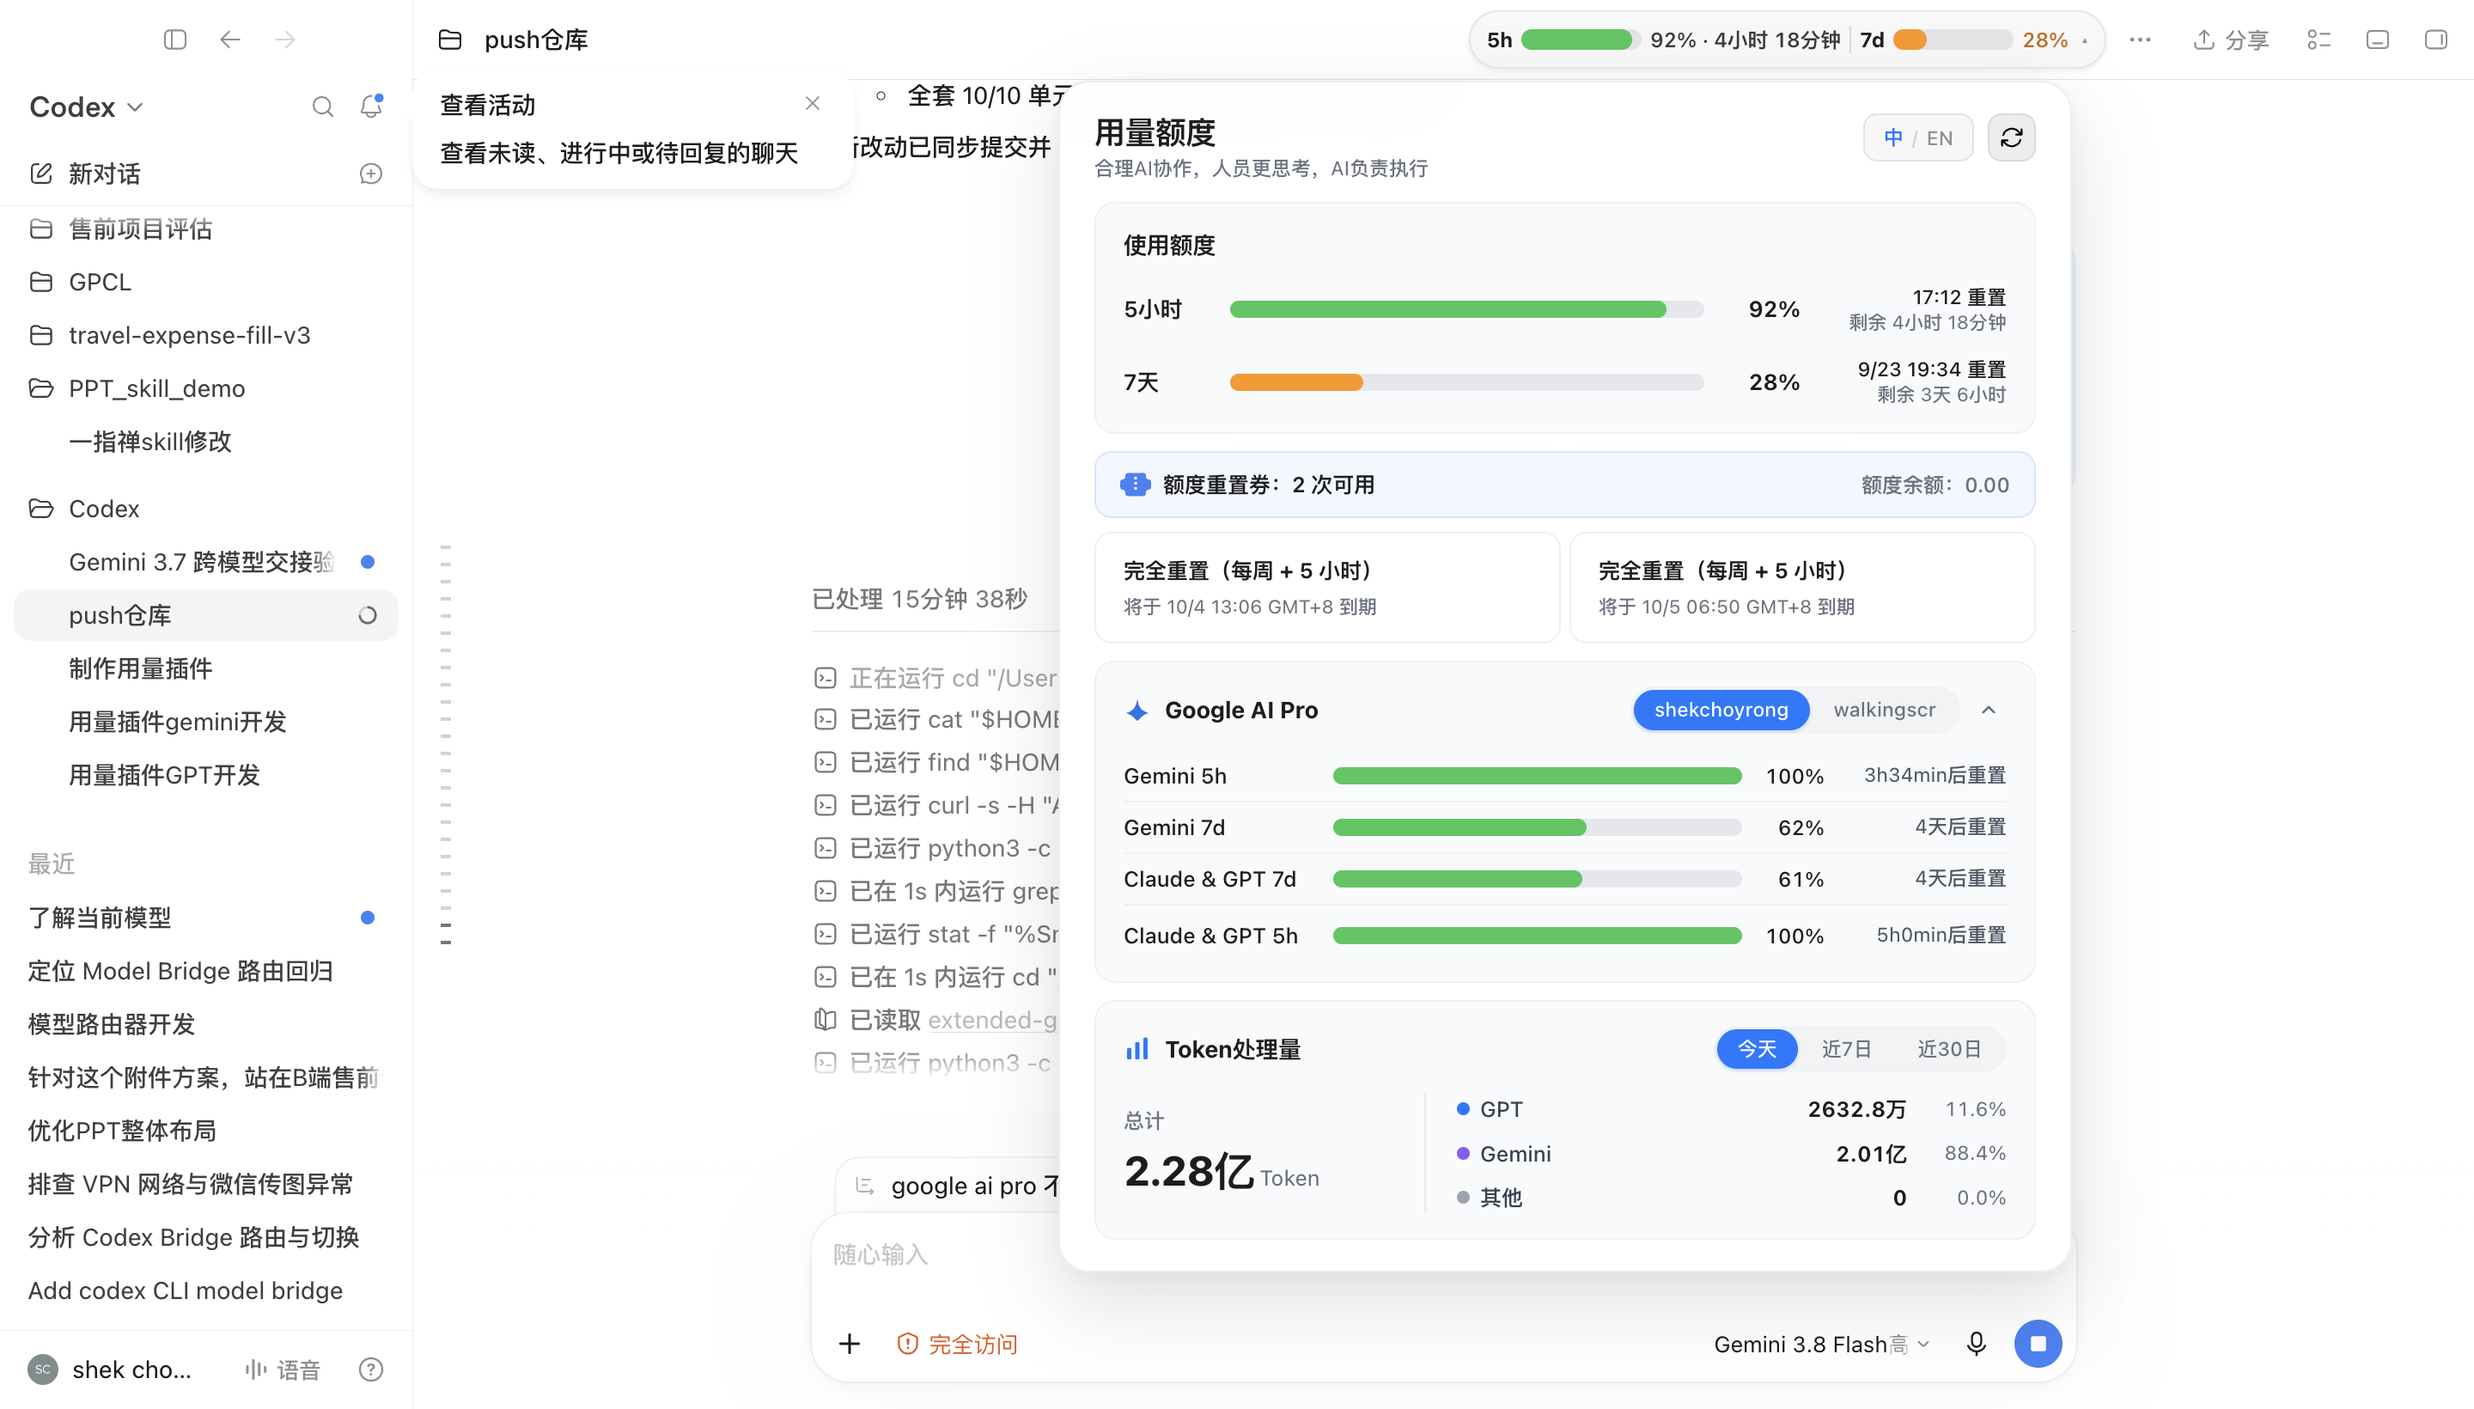
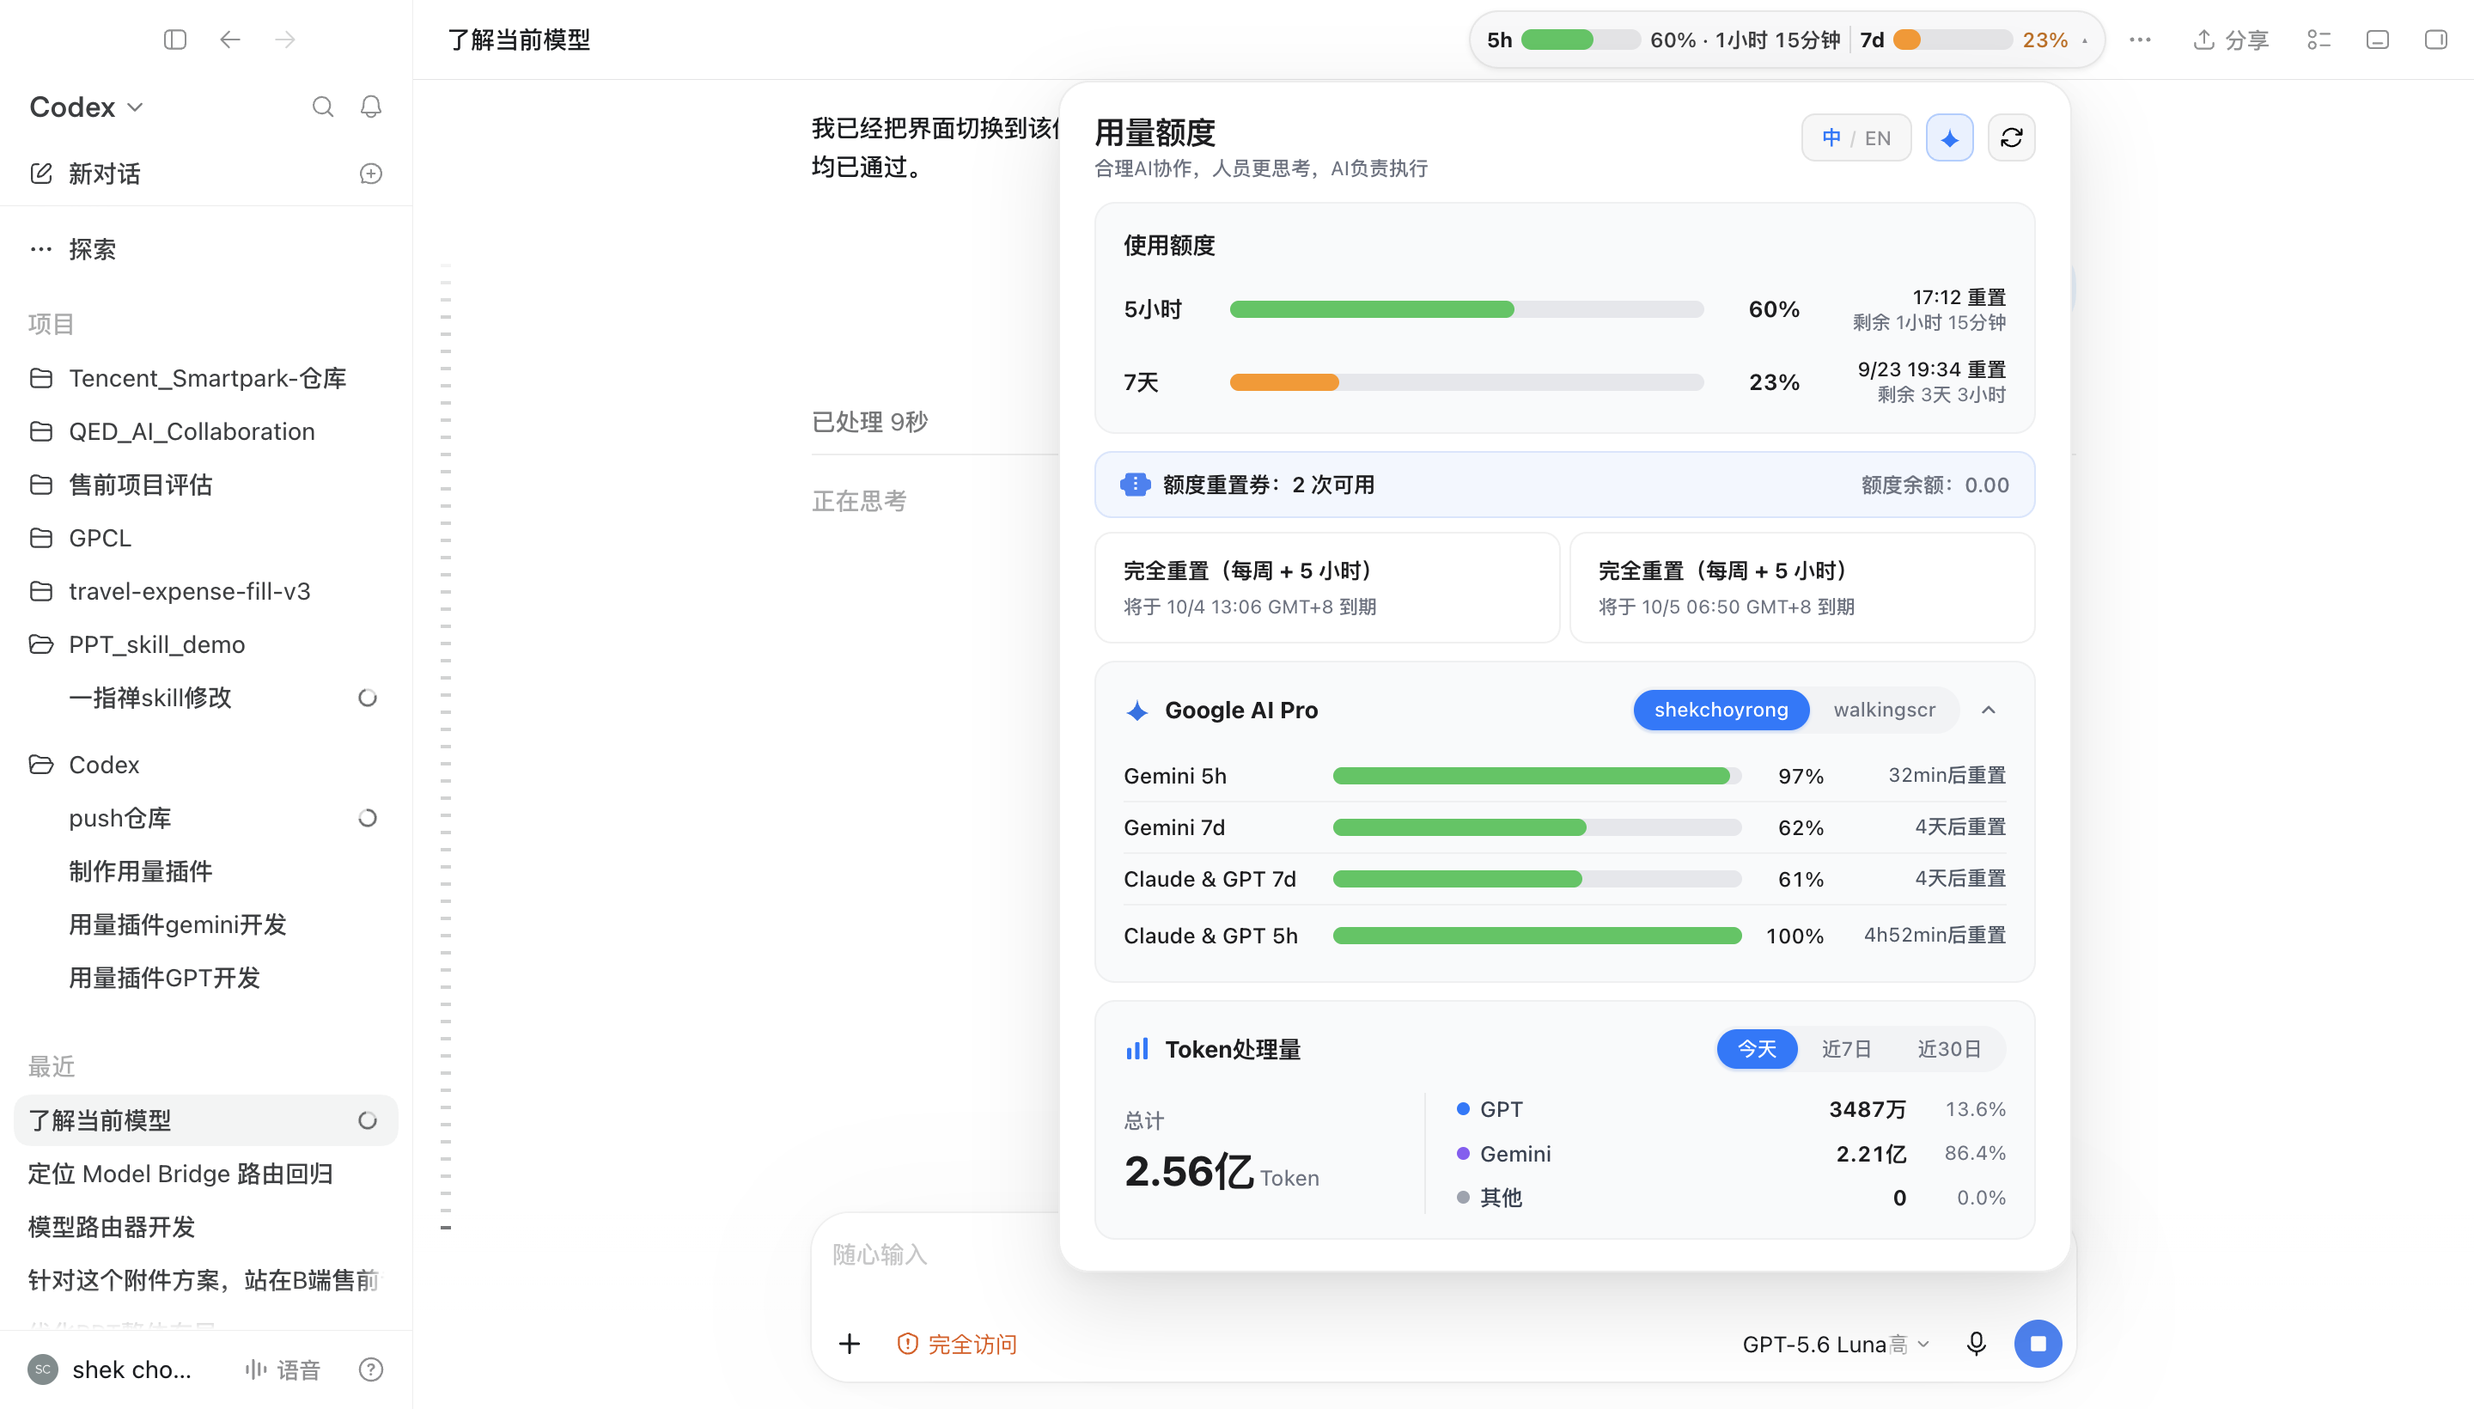
feat(config): implement Scheme A toggle for Google AI Pro module

diff --git a/src/injected.js b/src/injected.js
@@ -6,7 +6,7 @@
 (() => {
   'use strict';
 
-  const RUNTIME_VERSION = '3.5.0';
+  const RUNTIME_VERSION = '3.6.0';
   const HOST_TAG = 'codex-usage-header-host';
   const POPOVER_CLASS = 'codex-usage-popover-v24';
   const POPOVER_ID = 'codex-usage-details-v24';
@@ -46,6 +46,7 @@
   const defaultSettings = {
     locale: /^zh/i.test(document.documentElement.lang || navigator.language || '') ? 'zh-CN' : 'en-US',
     refreshIntervalSeconds: 30,
+    enableGoogleAiPro: false,
   };
 
   function safeSettings() {
@@ -54,6 +55,7 @@
       return {
         locale: saved.locale === 'zh-CN' || saved.locale === 'en-US' ? saved.locale : defaultSettings.locale,
         refreshIntervalSeconds: Number(saved.refreshIntervalSeconds) === 60 ? 60 : 30,
+        enableGoogleAiPro: Boolean(saved.enableGoogleAiPro ?? defaultSettings.enableGoogleAiPro),
       };
     } catch {
       return { ...defaultSettings };
@@ -160,6 +162,8 @@
       settingsSaved: '刷新频率已保存',
       geminiTitle: 'Google AI Pro', // Gemini AI Pro compatibility
       tokenUsage: 'Token处理量',
+      toggleGoogle: 'Google AI Pro (开启/关闭)',
+      noGoogleAccounts: '未检测到本地 Google AI Pro 账号配置',
       today: '今天',
       days7: '近7日',
       days30: '近30日',
@@ -210,6 +214,8 @@
       settingsSaved: 'Refresh interval saved',
       geminiTitle: 'Google AI Pro', // Gemini AI Pro compatibility
       tokenUsage: 'Token usage',
+      toggleGoogle: 'Google AI Pro (Toggle on/off)',
+      noGoogleAccounts: 'No local Google AI Pro accounts found',
       today: 'Today',
       days7: 'Last 7 days',
       days30: 'Last 30 days',
@@ -521,6 +527,16 @@
           switchLocale();
         }
       }
+      else if (path.find(node => node?.classList?.contains('google-toggle-btn'))) {
+        settings.enableGoogleAiPro = !settings.enableGoogleAiPro;
+        persistSettings();
+        emitCommand('settings', { enableGoogleAiPro: settings.enableGoogleAiPro });
+        if (settings.enableGoogleAiPro) {
+          emitCommand('refresh', {}, false);
+        }
+        renderAll();
+        positionPopover();
+      }
       else if (googleToggle) {
         googleCollapsed = !googleCollapsed;
         try { localStorage.setItem('codexQuotaHeader.googleCollapsed', String(googleCollapsed)); } catch { /* ignore */ }
@@ -650,72 +666,6 @@
     const anti = extendedUsageState.antigravity || {};
     const tok = extendedUsageState.tokens || {};
 
-    const accounts = anti.accounts || [];
-    const savedAccount = typeof localStorage !== 'undefined' ? localStorage.getItem('codexQuotaHeader.selectedAntigravityAccount') : null;
-    const manualAccount = accounts.find(a => a.email === (anti.selectedAccount || savedAccount));
-    const isManualValid = manualAccount && isAccountAvailable(manualAccount);
-    const activeAccount = (isManualValid ? manualAccount : accounts.find(isAccountAvailable)) || accounts[0] || anti;
-    const activeRows = activeAccount.rows || anti.rows || [];
-
-    let accountTabsHtml = '';
-    if (accounts.length > 1) {
-      accountTabsHtml = '<div class="quota-extension-account-tabs">'
-        + accounts.map((acc, idx) => {
-          const isActive = (acc.email === activeAccount.email);
-          const tabLabel = acc.label || (acc.email ? acc.email.split('@')[0] : '') || (isZh ? ('账号' + (idx + 1)) : ('Account ' + (idx + 1)));
-          return '<button type="button" class="quota-extension-account-tab ' + (isActive ? 'is-active' : '') + '" data-account="' + esc(acc.email) + '" title="' + esc(acc.email) + '">'
-            + esc(tabLabel)
-            + '</button>';
-        }).join('')
-        + '</div>';
-    }
-
-    const chevronSvg = '<svg class="chevron-icon" width="13" height="13" viewBox="0 0 24 24" fill="none" stroke="currentColor" stroke-width="2.4" stroke-linecap="round" stroke-linejoin="round">'
-      + (googleCollapsed ? '<polyline points="6 9 12 15 18 9"></polyline>' : '<polyline points="18 15 12 9 6 15"></polyline>')
-      + '</svg>';
-
-    let geminiRowsHtml = '';
-    if (!googleCollapsed) {
-      if (activeRows && activeRows.length > 0) {
-        geminiRowsHtml = '<div class="quota-extension-rows">'
-          + activeRows.map((row, idx) => {
-            const color = getQuotaColor(row.remainingPercent);
-            const percentText = (row.remainingPercent !== null && row.remainingPercent !== undefined && !row.unavailable)
-              ? row.remainingPercent + '%'
-              : '0%';
-            const countdownStr = isZh ? (row.countdown?.zh || '') : (row.countdown?.en || '');
-            const resetInfo = row.unavailable ? esc(t('noData')) : esc(countdownStr || t('imminent'));
-
-            return '<div class="quota-extension-row' + (idx === activeRows.length - 1 ? ' is-last' : '') + '">'
-              + '<span class="quota-extension-label">' + esc(row.label) + '</span>'
-              + '<span class="quota-extension-track"><span class="quota-extension-fill" style="width:' + (row.unavailable ? 0 : (row.remainingPercent || 0)) + '%;background:' + color + '"></span></span>'
-              + '<span class="quota-extension-percent">' + esc(percentText) + '</span>'
-              + '<span class="quota-extension-value">' + esc(resetInfo) + '</span>'
-              + '</div>';
-          }).join('')
-          + '</div>';
-      } else {
-        geminiRowsHtml = '<div class="quota-extension-note">' + esc(t('noData')) + '</div>';
-      }
-    }
-
-    const sparkleSvg = '<svg class="section-icon" width="16" height="16" viewBox="0 0 24 24" fill="#1A73E8"><path d="M12 2C12 2 12.5 8.5 15.5 11.5C18.5 14.5 22 15 22 15C22 15 18.5 15.5 15.5 18.5C12.5 21.5 12 22 12 22C12 22 11.5 21.5 8.5 18.5C5.5 15.5 2 15 2 15C2 15 5.5 14.5 8.5 11.5C11.5 8.5 12 2 12 2Z"/></svg>';
-
-    const geminiSection = '<div class="card-section quota-extension-section">'
-      + '<div class="quota-extension-header' + (!googleCollapsed && activeRows?.length ? ' has-rows' : '') + '">'
-      + '<div class="quota-extension-title-wrap">'
-      + sparkleSvg
-      + '<span class="quota-extension-title">' + esc(t('geminiTitle')) + '</span>'
-      + '</div>'
-      + '<div class="quota-extension-header-actions">'
-      + accountTabsHtml
-      + '<button type="button" class="quota-extension-toggle" aria-label="Toggle Google AI Pro">' + chevronSvg + '</button>'
-      + '</div>'
-      + '</div>'
-      + geminiRowsHtml
-      + '</div>';
-
-    // Token Section
     const selectedRange = tok.selectedRange || 'today';
     const rangeTabs = '<div class="quota-extension-range-tabs">'
       + '<button type="button" class="quota-extension-range-tab ' + (selectedRange === 'today' ? 'is-active' : '') + '" data-range="today">' + esc(t('today')) + '</button>'
@@ -779,6 +729,77 @@
       + rangeTabs
       + '</div>'
       + tokenContent
+      + '</div>';
+
+    if (!settings.enableGoogleAiPro) {
+      return '<div class="quota-extension">' + tokenSection + '</div>';
+    }
+
+    const accounts = anti.accounts || [];
+    const savedAccount = typeof localStorage !== 'undefined' ? localStorage.getItem('codexQuotaHeader.selectedAntigravityAccount') : null;
+    const manualAccount = accounts.find(a => a.email === (anti.selectedAccount || savedAccount));
+    const isManualValid = manualAccount && isAccountAvailable(manualAccount);
+    const activeAccount = (isManualValid ? manualAccount : accounts.find(isAccountAvailable)) || accounts[0] || anti;
+    const activeRows = activeAccount.rows || anti.rows || [];
+
+    let accountTabsHtml = '';
+    if (accounts.length > 1) {
+      accountTabsHtml = '<div class="quota-extension-account-tabs">'
+        + accounts.map((acc, idx) => {
+          const isActive = (acc.email === activeAccount.email);
+          const tabLabel = acc.label || (acc.email ? acc.email.split('@')[0] : '') || (isZh ? ('账号' + (idx + 1)) : ('Account ' + (idx + 1)));
+          return '<button type="button" class="quota-extension-account-tab ' + (isActive ? 'is-active' : '') + '" data-account="' + esc(acc.email) + '" title="' + esc(acc.email) + '">'
+            + esc(tabLabel)
+            + '</button>';
+        }).join('')
+        + '</div>';
+    }
+
+    const chevronSvg = '<svg class="chevron-icon" width="13" height="13" viewBox="0 0 24 24" fill="none" stroke="currentColor" stroke-width="2.4" stroke-linecap="round" stroke-linejoin="round">'
+      + (googleCollapsed ? '<polyline points="6 9 12 15 18 9"></polyline>' : '<polyline points="18 15 12 9 6 15"></polyline>')
+      + '</svg>';
+
+    let geminiContent = '';
+    if (!accounts.length) {
+      geminiContent = '<div class="quota-extension-note">' + esc(t('noGoogleAccounts')) + '</div>';
+    } else if (!googleCollapsed) {
+      if (activeRows && activeRows.length > 0) {
+        geminiContent = '<div class="quota-extension-rows">'
+          + activeRows.map((row, idx) => {
+            const color = getQuotaColor(row.remainingPercent);
+            const percentText = (row.remainingPercent !== null && row.remainingPercent !== undefined && !row.unavailable)
+              ? row.remainingPercent + '%'
+              : '0%';
+            const countdownStr = isZh ? (row.countdown?.zh || '') : (row.countdown?.en || '');
+            const resetInfo = row.unavailable ? esc(t('noData')) : esc(countdownStr || t('imminent'));
+
+            return '<div class="quota-extension-row' + (idx === activeRows.length - 1 ? ' is-last' : '') + '">'
+              + '<span class="quota-extension-label">' + esc(row.label) + '</span>'
+              + '<span class="quota-extension-track"><span class="quota-extension-fill" style="width:' + (row.unavailable ? 0 : (row.remainingPercent || 0)) + '%;background:' + color + '"></span></span>'
+              + '<span class="quota-extension-percent">' + esc(percentText) + '</span>'
+              + '<span class="quota-extension-value">' + esc(resetInfo) + '</span>'
+              + '</div>';
+          }).join('')
+          + '</div>';
+      } else {
+        geminiContent = '<div class="quota-extension-note">' + esc(t('noData')) + '</div>';
+      }
+    }
+
+    const sparkleSvg = '<svg class="section-icon" width="16" height="16" viewBox="0 0 24 24" fill="#1A73E8"><path d="M12 2C12 2 12.5 8.5 15.5 11.5C18.5 14.5 22 15 22 15C22 15 18.5 15.5 15.5 18.5C12.5 21.5 12 22 12 22C12 22 11.5 21.5 8.5 18.5C5.5 15.5 2 15 2 15C2 15 5.5 14.5 8.5 11.5C11.5 8.5 12 2 12 2Z"/></svg>';
+
+    const geminiSection = '<div class="card-section quota-extension-section">'
+      + '<div class="quota-extension-header' + (!googleCollapsed && activeRows?.length ? ' has-rows' : '') + '">'
+      + '<div class="quota-extension-title-wrap">'
+      + sparkleSvg
+      + '<span class="quota-extension-title">' + esc(t('geminiTitle')) + '</span>'
+      + '</div>'
+      + '<div class="quota-extension-header-actions">'
+      + accountTabsHtml
+      + '<button type="button" class="quota-extension-toggle" aria-label="Toggle Google AI Pro">' + chevronSvg + '</button>'
+      + '</div>'
+      + '</div>'
+      + geminiContent
       + '</div>';
 
     return '<div class="quota-extension">'
@@ -871,7 +892,9 @@
       '.lang-opt{color:' + (dark ? '#8E8E93' : '#8E8E93') + ';font-weight:500;padding:1px 3px;border-radius:4px;transition:all .15s ease}',
       '.lang-opt.is-active{color:#007AFF;font-weight:700}',
       '.lang-sep{color:' + (dark ? 'rgba(255,255,255,.2)' : 'rgba(0,0,0,.15)') + ';font-size:10.5px}',
-      '.card-refresh{width:28px;padding:0;display:grid;place-items:center}',
+      '.card-refresh,.google-toggle-btn{width:28px;height:28px;padding:0;border-radius:8px;border:1px solid ' + (dark ? 'rgba(255,255,255,.14)' : 'rgba(0,0,0,.08)') + ';background:' + (dark ? 'rgba(255,255,255,.08)' : 'rgba(0,0,0,.03)') + ';color:' + (dark ? '#8E8E93' : '#8E8E93') + ';cursor:pointer;display:grid;place-items:center;transition:all .15s ease}',
+      '.google-toggle-btn:hover{background:' + (dark ? 'rgba(255,255,255,.14)' : 'rgba(0,0,0,.07)') + ';color:' + (dark ? '#FFFFFF' : '#1D1D1F') + '}',
+      '.google-toggle-btn.is-active{background:' + (dark ? 'rgba(10,132,255,.20)' : 'rgba(0,122,255,.10)') + ';border-color:' + (dark ? 'rgba(10,132,255,.45)' : 'rgba(0,122,255,.30)') + ';color:#007AFF}',
       '.card-refresh .icon,.card-refresh svg{width:15px;height:15px}',
       '.card-refresh.state-loading .icon,.card-refresh.state-loading svg{animation:quota-refresh-spin .72s linear infinite}',
       '.language-toggle:hover,.card-refresh:hover{background:' + (dark ? 'rgba(255,255,255,.14)' : 'rgba(0,0,0,.07)') + '}',
@@ -963,6 +986,7 @@
       + '<span class="lang-sep">/</span>'
       + '<span class="lang-opt' + (!isZh ? ' is-active' : '') + '" data-lang="en-US">EN</span>'
       + '</button> <!-- 中 / EN -->'
+      + '<button type="button" class="google-toggle-btn' + (settings.enableGoogleAiPro ? ' is-active' : '') + '" aria-label="' + esc(t('toggleGoogle')) + '" title="' + esc(t('toggleGoogle')) + '"><svg width="14" height="14" viewBox="0 0 24 24" fill="currentColor"><path d="M12 2C12 2 12.5 8.5 15.5 11.5C18.5 14.5 22 15 22 15C22 15 18.5 15.5 15.5 18.5C12.5 21.5 12 22 12 22C12 22 11.5 21.5 8.5 18.5C5.5 15.5 2 15 2 15C2 15 5.5 14.5 8.5 11.5C11.5 8.5 12 2 12 2Z"/></svg></button>'
       + '<button class="card-refresh state-' + refreshState + '" aria-label="' + esc(refreshState === 'loading' ? t('refreshing') : refreshState === 'error' ? t('refreshFailed') : t('refresh')) + '">' + iconMarkup('refresh') + '</button>'
       + '</div>'
       + '</div>'
